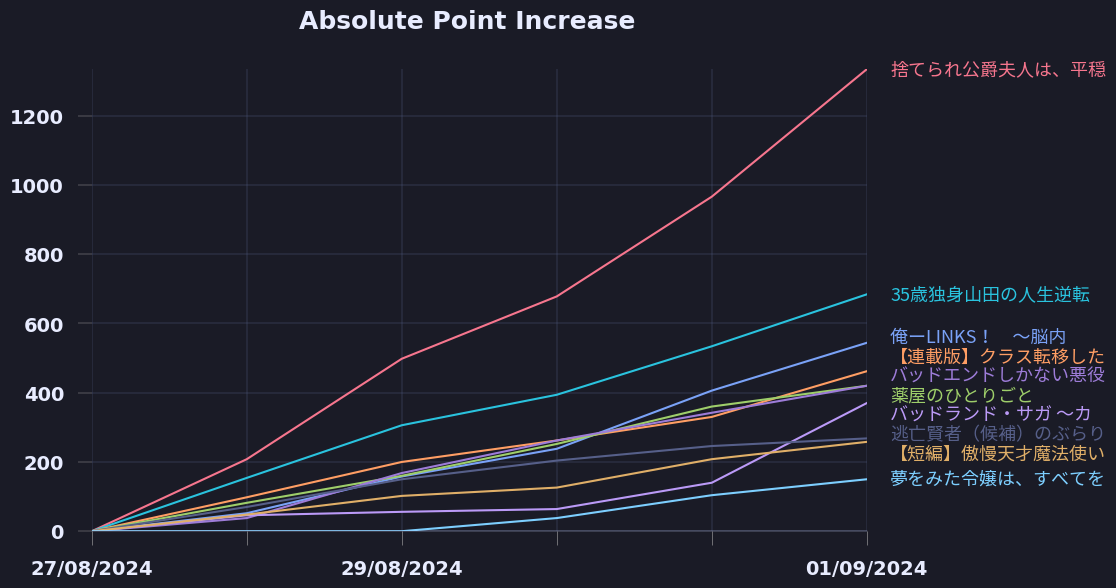
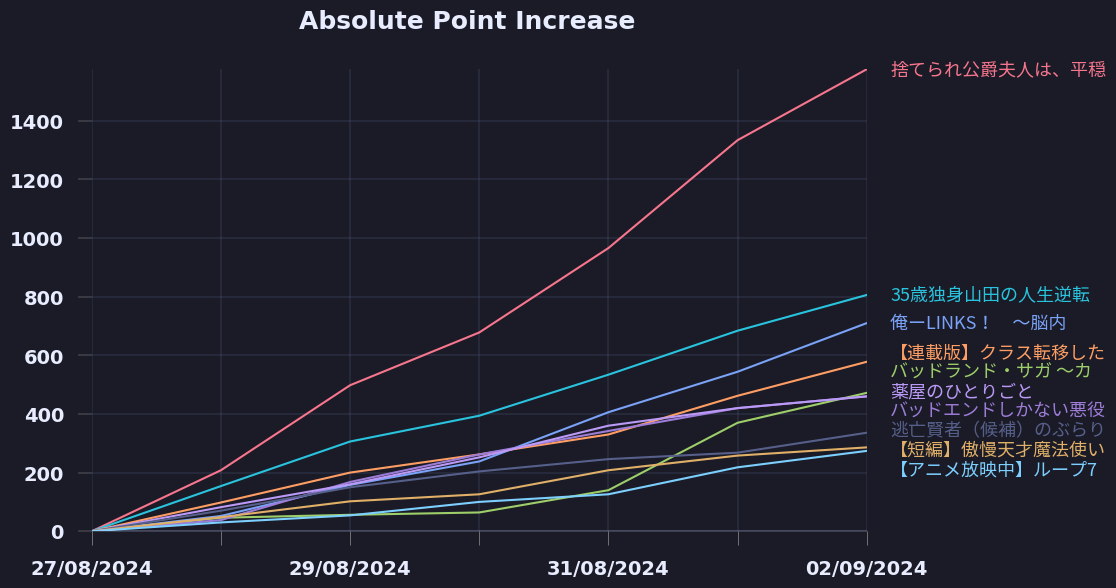
update plots

diff --git a/README.md b/README.md
@@ -12,9 +12,9 @@
 2. [35歳独身山田の人生逆転魔法　～現代社会に疲れた俺は異世界でスローライフを楽しむために現代で悪魔と戦って金儲けをしながら異世界村を発展させることにしました～](https://ncode.syosetu.com/n3115io/)
 3. [俺ーLINKS！　～脳内会議のメンバー達が、並行世界の俺自身だった件～](https://ncode.syosetu.com/n7942io/)
 4. [【連載版】クラス転移したら、なぜか引きこもりの俺まで異世界に連れてかれたんだが　～『自宅』のギフトが最強だったので、快適な異世界ライフを送ろうと思います～](https://ncode.syosetu.com/n3960io/)
-5. [薬屋のひとりごと](https://ncode.syosetu.com/n9636x/)
+5. [バッドランド・サガ ～カリスマ極振り異世界転生～](https://ncode.syosetu.com/n4990io/)
 6. [バッドエンドしかない悪役令嬢に転生したので、好きに生きます](https://ncode.syosetu.com/n6596io/)
-7. [バッドランド・サガ ～カリスマ極振り異世界転生～](https://ncode.syosetu.com/n4990io/)
+7. [薬屋のひとりごと](https://ncode.syosetu.com/n9636x/)
 8. [逃亡賢者（候補）のぶらり旅　〜召喚されましたが、逃げ出して安寧の地探しを楽しみます〜](https://ncode.syosetu.com/n5418hv/)
 9. [【短編】傲慢天才魔法使いの婚約者へ意趣返しで家を出てやった騎士令嬢のその後。](https://ncode.syosetu.com/n0356io/)
-10. [夢をみた令嬢は、すべてを悟る。](https://ncode.syosetu.com/n7711io/)
+10. [【アニメ放映中】ループ7回目の悪役令嬢は、元敵国で自由気ままな花嫁生活を満喫する](https://ncode.syosetu.com/n1784ga/)
